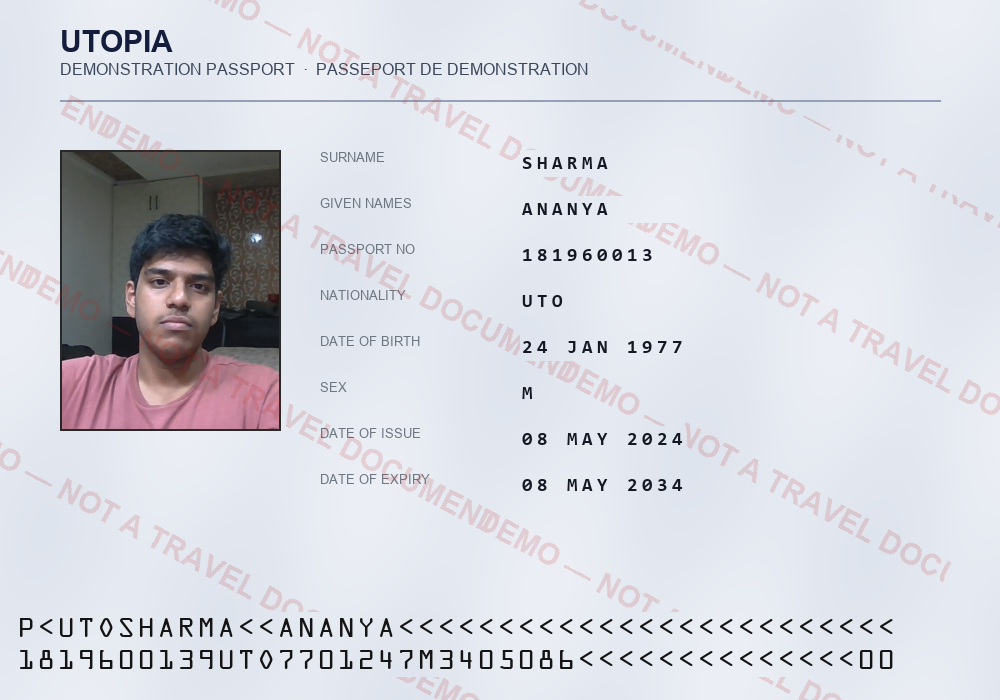
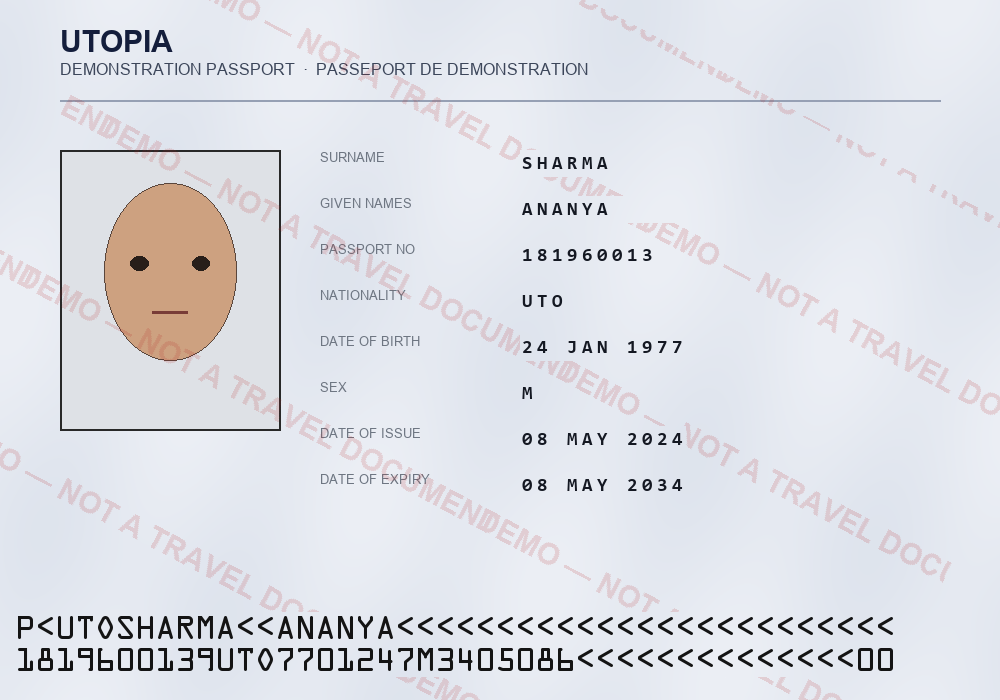
Fix MRZ template geometry mismatch

Changed region(s): [[0.062, 0.21, 0.279, 0.63], [0.0, 0.87, 0.899, 0.96]]

diff --git a/config.py b/config.py
@@ -5,6 +5,9 @@ magic constant. Every module imports from here.
 """
 from pathlib import Path
 
+BASE_DIR = Path(__file__).resolve().parent
+from pathlib import Path
+
 # ---------------------------------------------------------------- paths ---
 ROOT = Path(__file__).resolve().parent
 
@@ -33,7 +36,7 @@ MODEL_FILES = {
 }
 
 FONTS = {
-    "mrz": r"C:\Windows\Fonts\OCRAEXT.TTF",   # OCR-A Extended: real MRZ-family font
+    "mrz": str(BASE_DIR / "fonts" / "OCRA.ttf"),   # OCR-A Extended: real MRZ-family font
     "sans": r"C:\Windows\Fonts\arial.ttf",
     "sans_bold": r"C:\Windows\Fonts\arialbd.ttf",
     "mono_bold": r"C:\Windows\Fonts\consolab.ttf",  # VIZ field values -- see core/fields.py

diff --git a/core/pipeline.py b/core/pipeline.py
@@ -51,6 +51,14 @@ def screen_document(image_path: str | Path, crypto_signal=None,
         csca_cert, _, _ = load_or_create_pki()
         crypto_signal = resolve_and_verify(image_path, csca_cert, policy=policy)
     line1, line2, _ = read_td3(gray, MRZ_BAND_BBOX)
+
+    print("MRZ LINE 1:", repr(line1))
+    print("MRZ LINE 2:", repr(line2))
+    print(
+        "MRZ LINE 2 INDEXED:",
+        " ".join(f"{i:02d}:{c}" for i, c in enumerate(line2))
+    )
+
     fields = decode_fields(line1, line2)
 
     signals = []

diff --git a/core/glyphs.py b/core/glyphs.py
@@ -11,8 +11,10 @@ from config import FONTS, MODEL_FILES
 from core.mrz import CHARSET
 from core.textgrid import get_templates as _get_templates
 
-CELL_W, CELL_H = 26, 40
-FONT_SIZE = 34
+from core.fields import MRZ_CELL_W, MRZ_CELL_H
+
+CELL_W, CELL_H = MRZ_CELL_W, MRZ_CELL_H
+FONT_SIZE = 30
 
 
 def get_templates():
